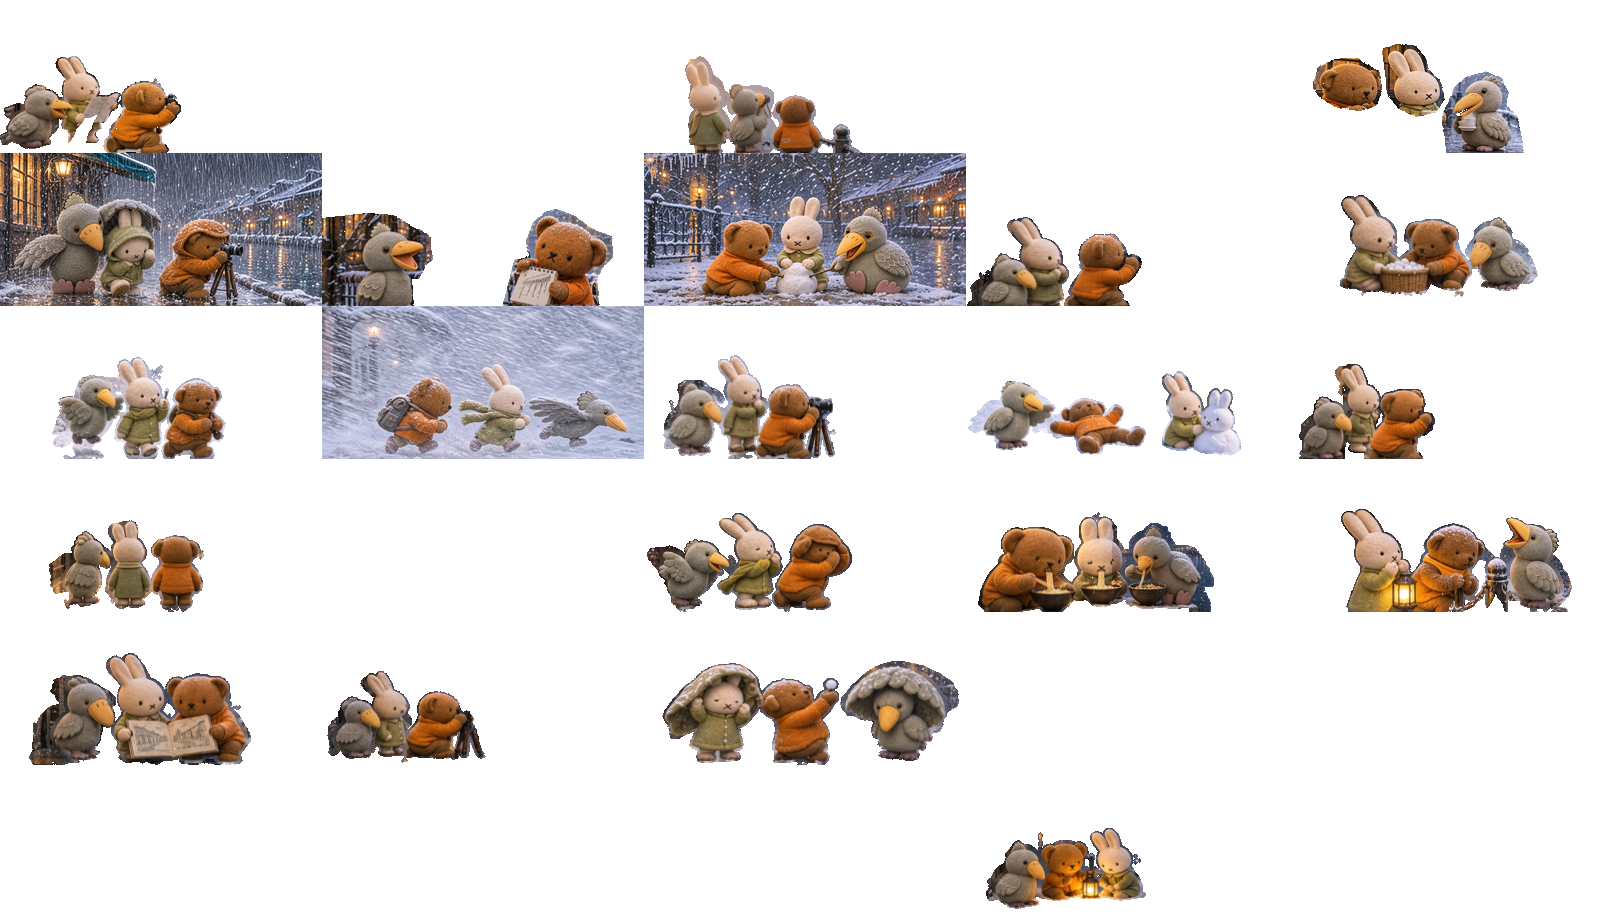
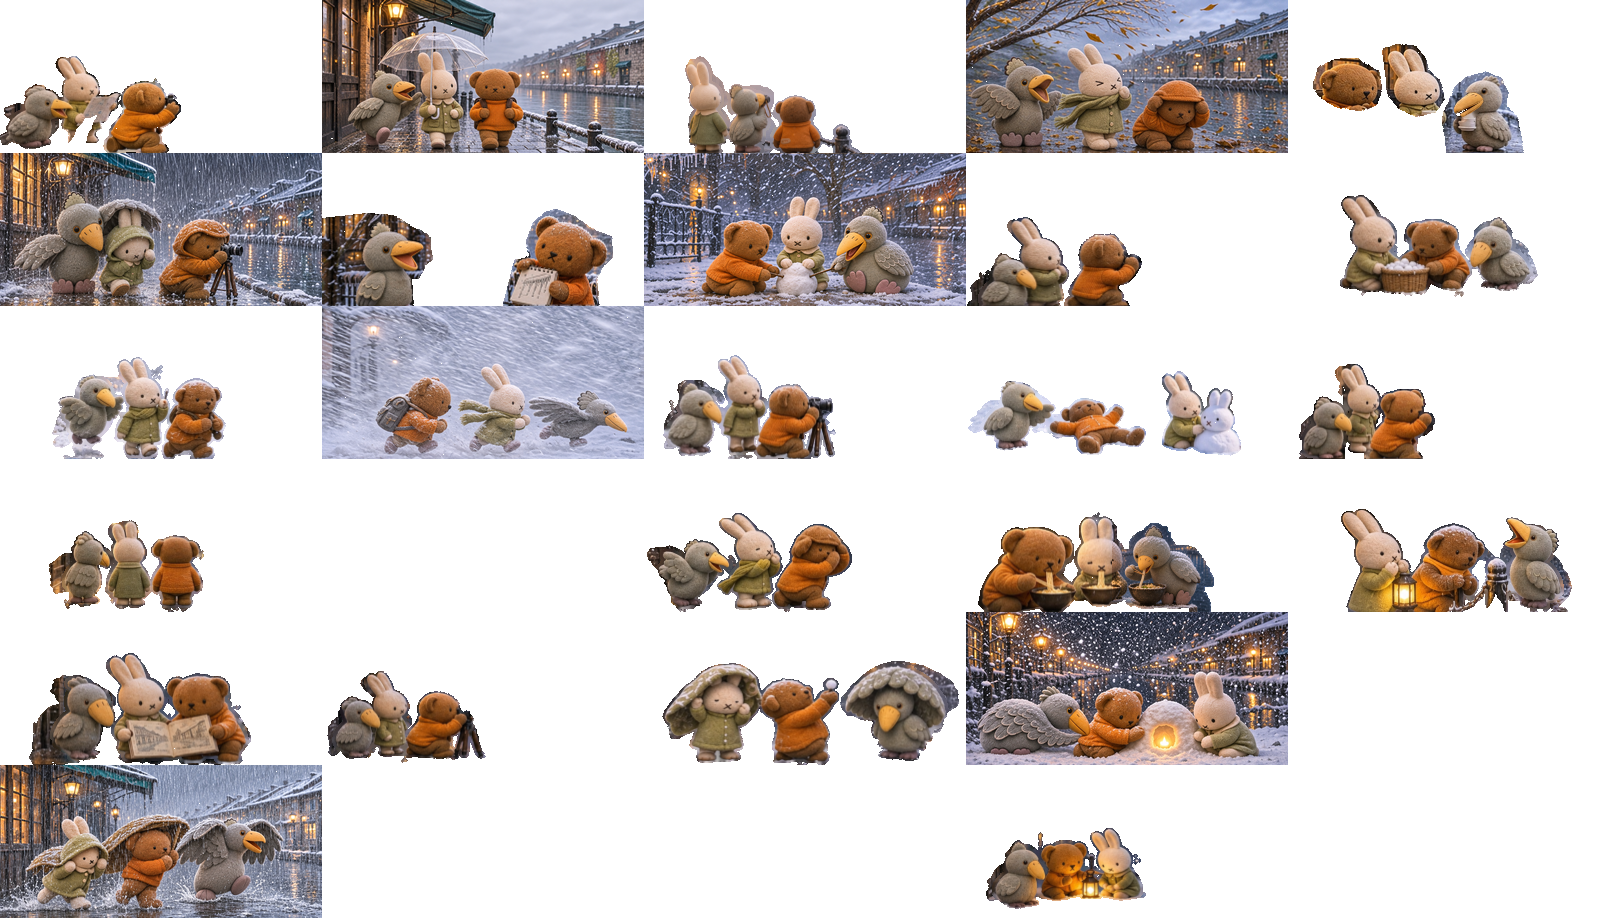
Publish verified plush travel weather illustrations

diff --git a/trip-scenery.js b/trip-scenery.js
@@ -132,7 +132,7 @@ const TripScenery = (() => {
     "hongkong":{"rev":"1c5206374d36","tiles":[1,3,13]},
     "hongkong-b":{"rev":"b2ba49573041","tiles":[0,1,3,4,5,6,7,8,9,10,11,12,13,14,15,17,18,19,20,21,22,23,24,26,27,28,29]},
     "ikebukuro":{"rev":"3eac653f613a","tiles":[6,7,12,17,18]},
-    "ikebukuro-b":{"rev":"1637532a841f","tiles":[0,1,2,3,4,5,6,7,8,9,10,11,12,13,14,15,16,17,18,19,20,21,23,24,25,26,27,28,29]},
+    "ikebukuro-b":{"rev":"01305e52c5ba","tiles":[0,1,2,3,4,5,6,7,8,9,10,11,12,13,14,15,16,17,18,19,20,21,22,23,24,25,26,27,28,29]},
     "kushiro":{"rev":"ba38cfd09b0c","tiles":[0,3,7,16,18,19]},
     "kushiro-b":{"rev":"ebb67b2e06f4","tiles":[0,1,2,3,4,5,6,7,8,9,10,11,12,13,14,15,16,17,18,19,20,21,22,23,24,25,26,27,28,29]},
     "kussharo":{"rev":"93c2e99f0902","tiles":[4,7]},
@@ -144,15 +144,15 @@ const TripScenery = (() => {
     "narita":{"rev":"8975a1809016","tiles":[11,12,15]},
     "narita-b":{"rev":"cd88771d16f5","tiles":[0,2,3,4,5,6,7,8,9,10,11,12,13,14,15,16,17,18,19,20,21,22,23,24,25,26,27,28,29]},
     "obihiro":{"rev":"1c28bd332a3d","tiles":[7,13,18]},
-    "obihiro-b":{"rev":"96d181f0ed03","tiles":[0,1,2,4,6,7,8,9,10,11,12,13,14,15,17,18,19,20,21,22,23,24,25,26,27,28]},
+    "obihiro-b":{"rev":"c73f6bf09d2c","tiles":[0,1,2,3,4,5,6,7,8,9,10,11,12,13,14,15,17,18,19,20,21,22,23,24,25,26,27,28]},
     "otaru":{"rev":"3791dd540955","tiles":[9]},
-    "otaru-b":{"rev":"11a76998120a","tiles":[0,2,4,5,6,7,8,9,10,11,12,13,14,15,17,18,19,20,21,22,28]},
+    "otaru-b":{"rev":"94e8e027fdc7","tiles":[0,1,2,3,4,5,6,7,8,9,10,11,12,13,14,15,17,18,19,20,21,22,23,25,28]},
     "roppongi":{"rev":"ee08e606e29f","tiles":[12]},
-    "roppongi-b":{"rev":"b764aec7a39f","tiles":[1,2,3,4,5,6,7,8,9,10,11,12,13,14,15,16,17,18,19,20,21,22,23,24,25,26,27,28,29]},
+    "roppongi-b":{"rev":"ecae3f599bb4","tiles":[0,1,2,3,4,5,6,7,8,9,10,11,12,13,14,15,16,17,18,19,20,21,22,23,24,25,26,27,28,29]},
     "rusutsu":{"rev":"15835914c6d3","tiles":[7,11,13,16,18]},
-    "rusutsu-b":{"rev":"f68bd4b1a2fd","tiles":[0,1,2,3,4,5,6,8,9,10,11,12,13,14,15,16,17,18,19,20,22,24,25,26,27,28,29]},
+    "rusutsu-b":{"rev":"4403fea98d35","tiles":[0,1,2,3,4,5,6,7,8,9,10,11,12,13,14,15,16,17,18,19,20,21,22,23,24,25,26,27,28,29]},
     "sapporo":{"rev":"e925743f436f","tiles":[9]},
-    "sapporo-b":{"rev":"9426373f3218","tiles":[0,1,4,5,6,7,8,9,10,11,12,13,14,15,17,18,19,20,21,22,23,24,25,26,27,28,29]},
+    "sapporo-b":{"rev":"eac0a5b427ca","tiles":[0,1,3,4,5,6,7,8,9,10,11,12,13,14,15,17,18,19,20,21,22,23,24,25,26,27,28,29]},
     "spot-027c9d1e1":{"rev":"ffc74a33bb42","tiles":[0,9,16]},
     "spot-027c9d1e1-b":{"rev":"1ce3d158cc74","tiles":[0,1,2,3,4,5,6,7,8,9,10,11,12,13,14,15,16,17,18,19,20,21,22,23,24,25,26,27,28,29]},
     "spot-06158d8b5":{"rev":"a04051825e6b","tiles":[10,12,13]},
@@ -167,13 +167,13 @@ const TripScenery = (() => {
     "spot-1501f4191-b":{"rev":"97bed0a75cef","tiles":[22]},
     "spot-1a6f6070c-b":{"rev":"b61466bcc124","tiles":[0,1,2,3,4,5,6,7,8,9,10,11,12,13,14,15,16,17,18,19,20,21,22,23,24,25,26,27,28,29]},
     "spot-1d625ae4f":{"rev":"d953b4ddb572","tiles":[13]},
-    "spot-1d625ae4f-b":{"rev":"28daf288f5d2","tiles":[0,1,2,3,4,5,6,7,8,9,10,11,12,13,14,15,17,18,19,20,21,22,23,24,25,26,27,28,29]},
+    "spot-1d625ae4f-b":{"rev":"da48ae04534a","tiles":[0,1,2,3,4,5,6,7,8,9,10,11,12,13,14,15,16,17,18,19,20,21,22,23,24,25,26,27,28,29]},
     "spot-1f13a90b8":{"rev":"7c6cfdd1cf96","tiles":[0,3,5,7,9,10,13,14,15,16,18,19]},
     "spot-1f13a90b8-b":{"rev":"b4c99f139f7d","tiles":[0,1,2,3,4,5,6,7,8,9,10,11,12,13,14,15,16,17,18,19,20,21,22,23,24,25,26,27,28,29]},
     "spot-266ac0336":{"rev":"016e874e488a","tiles":[0,3,4,5,6,7,8,9,10,11,12,13,14,15,16,18,19]},
     "spot-266ac0336-b":{"rev":"8c9f89513548","tiles":[0,1,2,3,4,5,6,7,8,9,10,11,12,13,14,15,16,17,18,19,20,21,22,23,24,25,26,27,28,29]},
     "spot-269608d5a":{"rev":"fe0e7d68ff92","tiles":[2,14]},
-    "spot-269608d5a-b":{"rev":"46396c44a097","tiles":[0,1,2,4,5,6,7,8,9,10,11,12,13,14,15,16,17,18,19,20,21,22,23,24,25,26,27,28,29]},
+    "spot-269608d5a-b":{"rev":"ad3d7d383296","tiles":[0,1,2,3,4,5,6,7,8,9,10,11,12,13,14,15,16,17,18,19,20,21,22,23,24,25,26,27,28,29]},
     "spot-29d2293a9":{"rev":"ff2c5802e46d","tiles":[9]},
     "spot-29d2293a9-b":{"rev":"8bdc6175a5cd","tiles":[0,1,2,3,4,5,6,7,8,9,10,11,12,13,14,15,16,17,18,19,20,21,22,23,24,25,26,27,28,29]},
     "spot-2e38dcad4":{"rev":"cfe288363ce2","tiles":[0,1,2,3,4,5,6,7,8,9,10,11,12,13,14,15,16,17,18,19]},
@@ -182,7 +182,7 @@ const TripScenery = (() => {
     "spot-31c4556cc-b":{"rev":"97cc430c4588","tiles":[0,1,2,3,4,5,6,7,8,9,10,11,12,13,14,15,16,17,18,19,20,21,22,23,24,25,26,27,28,29]},
     "spot-330159020-b":{"rev":"27f5305b8a80","tiles":[0,7,8,10,17,22,25,29]},
     "spot-33cad23f7":{"rev":"7e078e457fee","tiles":[7]},
-    "spot-33cad23f7-b":{"rev":"7ca34327597a","tiles":[0,1,2,3,4,5,6,8,9,11,12,13,14,15,17,18,20,21,22,23,24,25,26,27,28,29]},
+    "spot-33cad23f7-b":{"rev":"24964188fcff","tiles":[0,1,2,3,4,5,6,7,8,9,10,11,12,13,14,15,17,18,19,20,21,22,23,24,25,26,27,28,29]},
     "spot-3c6782d38":{"rev":"95e40e1907f0","tiles":[13,14]},
     "spot-3c6782d38-b":{"rev":"367bb9a03438","tiles":[0,1,2,3,4,5,6,7,8,9,10,11,12,13,14,15,16,17,18,19,20,21,22,23,24,25,26,27,28,29]},
     "spot-3f5a2f8fc":{"rev":"f086f04ef697","tiles":[0,1,2,3,7,13,16,17,18,19]},
@@ -198,9 +198,9 @@ const TripScenery = (() => {
     "spot-46fc6bef6":{"rev":"dd6e20b2d088","tiles":[2,5,6,7,8,9,10,11,12,13,14,15,19]},
     "spot-46fc6bef6-b":{"rev":"f3523d55905a","tiles":[0,1,2,3,4,5,6,7,8,9,10,11,12,13,14,15,16,17,18,19,20,21,22,23,24,25,26,27,28,29]},
     "spot-4732296ba":{"rev":"17fc09d053e4","tiles":[12,13,14]},
-    "spot-4732296ba-b":{"rev":"e96a8c10ca62","tiles":[9,12,17,21,27,29]},
+    "spot-4732296ba-b":{"rev":"d581316f244b","tiles":[9,12,17,19,21,25,27,29]},
     "spot-48ff7da1d":{"rev":"fad02c1f62e6","tiles":[4,5,8,12,16]},
-    "spot-48ff7da1d-b":{"rev":"eaefaf9156d4","tiles":[0,1,2,3,4,5,6,7,8,9,10,11,12,13,17,18,21,25,26,27,29]},
+    "spot-48ff7da1d-b":{"rev":"bd1039181067","tiles":[0,1,2,3,4,5,6,7,8,9,10,11,12,13,14,15,16,17,18,19,20,21,22,25,26,27,29]},
     "spot-495afce62":{"rev":"0f11bee40ad2","tiles":[0,3,4,5,6,7,8,10,11,12,14,16,18,19]},
     "spot-495afce62-b":{"rev":"71c55bc944ae","tiles":[0,1,2,3,4,5,6,7,8,9,10,11,12,13,14,15,16,17,18,19,20,21,22,23,24,25,26,27,28,29]},
     "spot-49779f027":{"rev":"f42d3d417a05","tiles":[0,2,4,5,6,7,8,9,10,11,12,13,14,15,16,18,19]},
@@ -214,9 +214,9 @@ const TripScenery = (() => {
     "spot-5724c004b":{"rev":"4fd670cd81f4","tiles":[0,3,4,6,7,8,9,10,11,12,13,14,15,16,17,19]},
     "spot-5724c004b-b":{"rev":"a2d0ec36a719","tiles":[0,1,2,3,4,5,6,7,8,9,10,11,12,13,14,15,16,17,18,19,20,21,22,23,24,25,26,27,28,29]},
     "spot-59c3d0ebd":{"rev":"7378981aaaaa","tiles":[2,9,11,13,15,17]},
-    "spot-59c3d0ebd-b":{"rev":"84da97f9680c","tiles":[0,1,2,3,4,7,9,10,11,12,13,14,15,16,17,18,19,20,22,24,26,28]},
+    "spot-59c3d0ebd-b":{"rev":"5b28ade77df5","tiles":[0,1,2,3,4,5,6,7,8,9,10,11,12,13,14,15,16,17,18,19,20,21,22,23,24,26,28]},
     "spot-5df3b4a31":{"rev":"99a3dba5bf36","tiles":[4]},
-    "spot-5df3b4a31-b":{"rev":"9a2cf4fd7d46","tiles":[0,2,4,6,7,8,9,10,11,12,13]},
+    "spot-5df3b4a31-b":{"rev":"cb14f0d328ee","tiles":[0,2,3,4,5,6,7,8,9,10,11,12,13,14,28,29]},
     "spot-627afeabe":{"rev":"852212a79865","tiles":[0,3,4,6,7,8,10,11,12,13,14,16,19]},
     "spot-627afeabe-b":{"rev":"83191e3b0fba","tiles":[0,2,3,4,5,6,7,9,10,11,13,14,15,16,17,19,20,21,22,23,24,25,26,27,28,29]},
     "spot-628c4952e":{"rev":"b41c8cc7518c","tiles":[4,6,7,8,9,10,11,12,13,15]},
@@ -240,7 +240,7 @@ const TripScenery = (() => {
     "spot-86577f3e8":{"rev":"cf23b9d582dc","tiles":[7]},
     "spot-86577f3e8-b":{"rev":"17ebb3186a67","tiles":[0,3,5,6,7,9,10,11,12,17,20,22,23,26,29]},
     "spot-86b29bbb2":{"rev":"be6334feaaa8","tiles":[7,13]},
-    "spot-86b29bbb2-b":{"rev":"2dc63b432f6e","tiles":[0,1,2,3,4,5,6,7,8,9,10,12,13,14,15,16,17,18,19,20,21,22,23,24,26,28,29]},
+    "spot-86b29bbb2-b":{"rev":"48ebdfdd84dc","tiles":[0,1,2,3,4,5,6,7,8,9,10,12,13,14,15,16,17,18,19,20,21,22,23,24,25,26,27,28,29]},
     "spot-881d1794c":{"rev":"a6f83018e614","tiles":[13]},
     "spot-881d1794c-b":{"rev":"87dc43fb7c2d","tiles":[0,1,2,3,4,5,6,8,9,10,11,12,13,14,15,16,17,18,19,20,21,22,23,24,25,26,27,28,29]},
     "spot-885eb86b5":{"rev":"c488ce68dc31","tiles":[13]},
@@ -248,7 +248,7 @@ const TripScenery = (() => {
     "spot-89ba4f10d":{"rev":"dfea1c50ecc3","tiles":[4,7,12]},
     "spot-89ba4f10d-b":{"rev":"e04917d197f4","tiles":[0,1,2,3,4,5,6,7,8,9,10,11,12,13,14,15,16,17,18,19,20,21,22,23,24,25,26,27,28,29]},
     "spot-8f335641b":{"rev":"922d7a63f424","tiles":[7,10,13]},
-    "spot-8f335641b-b":{"rev":"375477dd3f94","tiles":[0,1,2,3,4,5,6,7,8,9,10,11,12,13,14,15,16,18,19,21,22,23,24,25,26,27,28,29]},
+    "spot-8f335641b-b":{"rev":"64f6f62793c2","tiles":[0,1,2,3,4,5,6,7,8,9,10,11,12,13,14,15,16,18,19,20,21,22,23,24,25,26,27,28,29]},
     "spot-90e680279":{"rev":"12f0a268008e","tiles":[0,1,2,3,4,5,6,7,8,9,10,11,12,13,14,15,16,17,18,19]},
     "spot-90e680279-b":{"rev":"663063803a20","tiles":[0,1,2,3,4,5,6,7,8,9,10,11,12,13,14,15,16,17,18,19,20,21,22,23,24,25,26,27,28,29]},
     "spot-986c13ff5":{"rev":"ce3ac4cbcc9f","tiles":[0,3,7,9,13,16]},
@@ -262,17 +262,17 @@ const TripScenery = (() => {
     "spot-ac4485fba-b":{"rev":"edc281c8e2c4","tiles":[0,1,2,3,4,5,6,7,8,9,10,11,12,13,14,15,16,17,18,19,20,21,22,23,24,25,26,27,28,29]},
     "spot-acfec276c-b":{"rev":"fcd0266ef445","tiles":[0,1,2,3,4,5,6,7,8,9,10,11,12,13,14,15,16,17,18,19,20,21,22,23,24,25,26,27,28,29]},
     "spot-b238fe7ba":{"rev":"34e2069181cf","tiles":[5]},
-    "spot-b238fe7ba-b":{"rev":"aca8198db2dd","tiles":[0,1,2,3,4,5,6,7,8,9,10,11,12,13,14,15,16,17,18,19,20,23,24,26,27,28,29]},
+    "spot-b238fe7ba-b":{"rev":"ff299b8f1a86","tiles":[0,1,2,3,4,5,6,7,8,9,10,11,12,13,14,15,16,17,18,19,20,21,22,23,24,25,26,27,28,29]},
     "spot-b531cf1e9":{"rev":"89fd0a7e4191","tiles":[4,7,9,11,14]},
-    "spot-b531cf1e9-b":{"rev":"beaeea66d4e2","tiles":[0,1,2,4,7,8,9,10,11,12,13,14,15,16,18,20,22,23,24,25,26,27,28,29]},
+    "spot-b531cf1e9-b":{"rev":"bdf96e46369f","tiles":[0,1,2,4,5,6,7,8,9,10,11,12,13,14,15,16,17,18,20,22,23,24,25,26,27,28,29]},
     "spot-bbf221799":{"rev":"d18150d38f81","tiles":[13]},
     "spot-bbf221799-b":{"rev":"0938c9dc52f6","tiles":[0,1,2,3,4,5,6,7,8,9,10,11,12,13,14,15,16,17,18,19,20,21,22,23,24,25,26,27,28,29]},
     "spot-c01dc34a3":{"rev":"07081ae18302","tiles":[7]},
-    "spot-c01dc34a3-b":{"rev":"774560fad46a","tiles":[0,1,2,3,4,5,6,7,9,10,11,12,13,14,15,16,17,18,19,20,21,22,23,24,25,26,27,28,29]},
+    "spot-c01dc34a3-b":{"rev":"8a4958cf0697","tiles":[0,1,2,3,4,5,6,7,8,9,10,11,12,13,14,15,16,17,18,19,20,21,22,23,24,25,26,27,28,29]},
     "spot-c1f3498b7":{"rev":"29ede418659d","tiles":[7,13]},
     "spot-c1f3498b7-b":{"rev":"68f0bd124929","tiles":[3,8,9,17,22,29]},
     "spot-c6a0e8931":{"rev":"0d3ecc38a268","tiles":[1,4,8,11,12,17,18]},
-    "spot-c6a0e8931-b":{"rev":"df7f14e59152","tiles":[0,1,2,3,4,5,6,7,8,9,10,11,12,13,14,15,16,17,18,19,21,22,23,24,25,26,27,28,29]},
+    "spot-c6a0e8931-b":{"rev":"9e4b0fcf8575","tiles":[0,1,2,3,4,5,6,7,8,9,10,11,12,13,14,15,16,17,18,19,20,21,22,23,24,25,26,27,28,29]},
     "spot-c8601530f":{"rev":"7312cb0824e0","tiles":[5]},
     "spot-c8601530f-b":{"rev":"b697f0ea1c5f","tiles":[0,1,3,4,5,6,7,8,9,10,11,12,13,14,15,17,18,19,20,21,22,23,24,25,26,27,28,29]},
     "spot-cb578c594":{"rev":"41d7fa1190c7","tiles":[7,8,13]},
@@ -292,7 +292,7 @@ const TripScenery = (() => {
     "spot-e2b4a3c27":{"rev":"32222fb0d2bc","tiles":[0,3,5,7,9,10,12,13,15,16,18]},
     "spot-e2b4a3c27-b":{"rev":"4cbc7c67ac52","tiles":[0,1,2,3,4,5,6,7,8,9,10,11,12,13,14,15,16,17,18,19,20,21,22,23,24,25,26,27,28,29]},
     "spot-e3447714a":{"rev":"efe1e24c9597","tiles":[8,11,13]},
-    "spot-e3447714a-b":{"rev":"8ac83d345da8","tiles":[0,1,2,3,4,5,6,7,8,9,10,11,12,13,14,15,16,17,18,19,20,21,23,24,25,26,27,28,29]},
+    "spot-e3447714a-b":{"rev":"42f972d2347d","tiles":[0,1,2,3,4,5,6,7,8,9,10,11,12,13,14,15,16,17,18,19,20,21,22,23,24,25,26,27,28,29]},
     "spot-e4f890e25":{"rev":"02de6256fdd0","tiles":[0,2,3,4,5,6,7,8,9,10,11,12,13,14,16,18,19]},
     "spot-e4f890e25-b":{"rev":"2380bfea87f6","tiles":[0,1,2,3,4,5,6,7,8,9,10,11,12,13,14,15,16,17,18,19,20,21,22,23,24,25,26,27,28,29]},
     "spot-e5fd09f2f-b":{"rev":"83af50250415","tiles":[0,1,2,3,4,5,6,7,8,9,10,11,12,13,14,15,16,17,18,19,20,21,22,23,24,25,26,27,28,29]},
@@ -301,7 +301,7 @@ const TripScenery = (() => {
     "spot-e72214aac":{"rev":"a29c666aca8b","tiles":[2,3]},
     "spot-e72214aac-b":{"rev":"8ecf08e2cb20","tiles":[2,3,8,13,17,20,21,25,29]},
     "spot-edb6dfccc":{"rev":"e8fe0ef39b76","tiles":[0,14,19]},
-    "spot-edb6dfccc-b":{"rev":"ed188f7c1f3e","tiles":[0,1,2,3,4,5,6,7,8,9,10,11,12,13,14,15,16,17,18,19,20,21,22,23,25,26,27,28,29]},
+    "spot-edb6dfccc-b":{"rev":"671e2eab1750","tiles":[0,1,2,3,4,5,6,7,8,9,10,11,12,13,14,15,16,17,18,19,20,21,22,23,24,25,26,27,28,29]},
     "spot-eefebbe06":{"rev":"ad9b5aa6f120","tiles":[18]},
     "spot-eefebbe06-b":{"rev":"0f635d4d2d14","tiles":[0,1,2,3,4,5,6,7,8,9,10,11,12,13,14,15,16,17,18,19,20,21,22,23,24,25,26,27,28,29]},
     "spot-efe273a59":{"rev":"474752faafa8","tiles":[9,11,12,13]},
@@ -309,13 +309,13 @@ const TripScenery = (() => {
     "spot-f029df4f6":{"rev":"cc1601e08408","tiles":[4,5,6,7,8,9,11,12,14,19]},
     "spot-f029df4f6-b":{"rev":"cde6d02610c7","tiles":[0,1,2,3,4,5,6,7,8,9,10,11,12,13,14,15,16,17,18,19,20,21,22,23,24,25,26,27,28,29]},
     "spot-f3cd60482":{"rev":"bdc2aee579fc","tiles":[7,8]},
-    "spot-f3cd60482-b":{"rev":"9974537ce808","tiles":[0,1,2,3,4,5,6,7,8,9,10,11,12,13,14,16,17,18,19,20,21,22,23,24,25,26,27,28,29]},
+    "spot-f3cd60482-b":{"rev":"11d507ab9175","tiles":[0,1,2,3,4,5,6,7,8,9,10,11,12,13,14,15,16,17,18,19,20,21,22,23,24,25,26,27,28,29]},
     "spot-f3d63d0ed":{"rev":"12979a811e88","tiles":[13,17,18]},
     "spot-f3d63d0ed-b":{"rev":"65ffa673091b","tiles":[0,1,2,3,4,5,6,7,8,9,10,11,12,13,14,15,16,17,18,19,20,21,22,23,24,25,26,27,28,29]},
     "spot-f7cce1fae":{"rev":"e0842d997b0f","tiles":[4,7,13]},
     "spot-f7cce1fae-b":{"rev":"43cbba567656","tiles":[3,10,11,17,24,25,29]},
     "spot-fb71239cf":{"rev":"7a71719715e9","tiles":[7,8,13]},
-    "spot-fb71239cf-b":{"rev":"e176cba66166","tiles":[0,1,2,3,4,5,6,7,8,9,10,11,12,14,15,16,17,18,19,20,21,23,24,25,26,27,28,29]},
+    "spot-fb71239cf-b":{"rev":"f7932dc13a6a","tiles":[0,1,2,3,4,5,6,7,8,9,10,11,12,13,14,15,16,17,18,19,20,21,22,23,24,25,26,27,28,29]},
     "tokachi":{"rev":"157a9d7fb85c","tiles":[1,2,7]},
     "tokachi-b":{"rev":"571d05f510e3","tiles":[0,1,2,3,4,5,6,7,8,9,10,11,12,13,14,15,16,17,18,19,20,21,22,23,24,25,26,27,28]},
     "tokyo":{"rev":"6da641a43c64","tiles":[7,11]},

diff --git a/index.html b/index.html
@@ -1,5 +1,5 @@
 <!doctype html>
-<html lang="zh-HK" data-build="20261125-v92">
+<html lang="zh-HK" data-build="20261125-v93">
 <head>
 <meta charset="utf-8">
 <meta name="viewport" content="width=device-width, initial-scale=1, viewport-fit=cover">
@@ -1168,7 +1168,7 @@
       <button data-act="trips">切換旅程</button>
       <button data-act="settings">設定</button>
       <div class="verrow">
-        <div id="ver" data-build="20261125-v92" style="padding-top:0">v92</div>
+        <div id="ver" data-build="20261125-v93" style="padding-top:0">v93</div>
         <button class="forceup" data-act="forceup" type="button">強制更新</button>
       </div>
     </div>
@@ -1236,7 +1236,7 @@
   var SBK = 'sb_publishable_YROUDaSxinrbHH4g7q8gmQ_4za7Ohfj';
   var TABLE='trip_log', AI_URL=SB+'/functions/v1/trip-ai';
   var APP='trip', SESS_KEY='appSession.trip', AUTH=SB+'/functions/v1/app-auth';
-  var APP_VER='20261125-v92';
+  var APP_VER='20261125-v93';
 
   // kind：類型定義（icon、名、有冇座標、預設時間 label）
   var KINDS={
